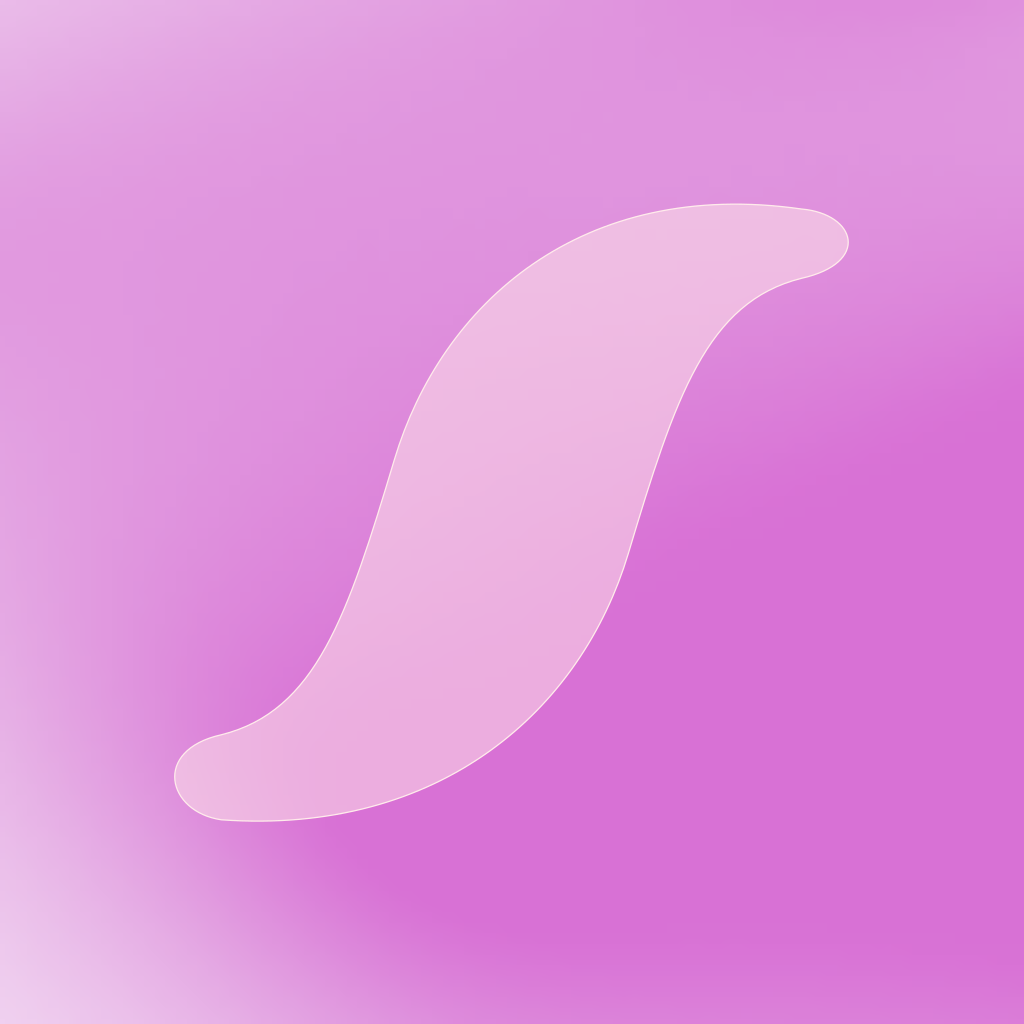
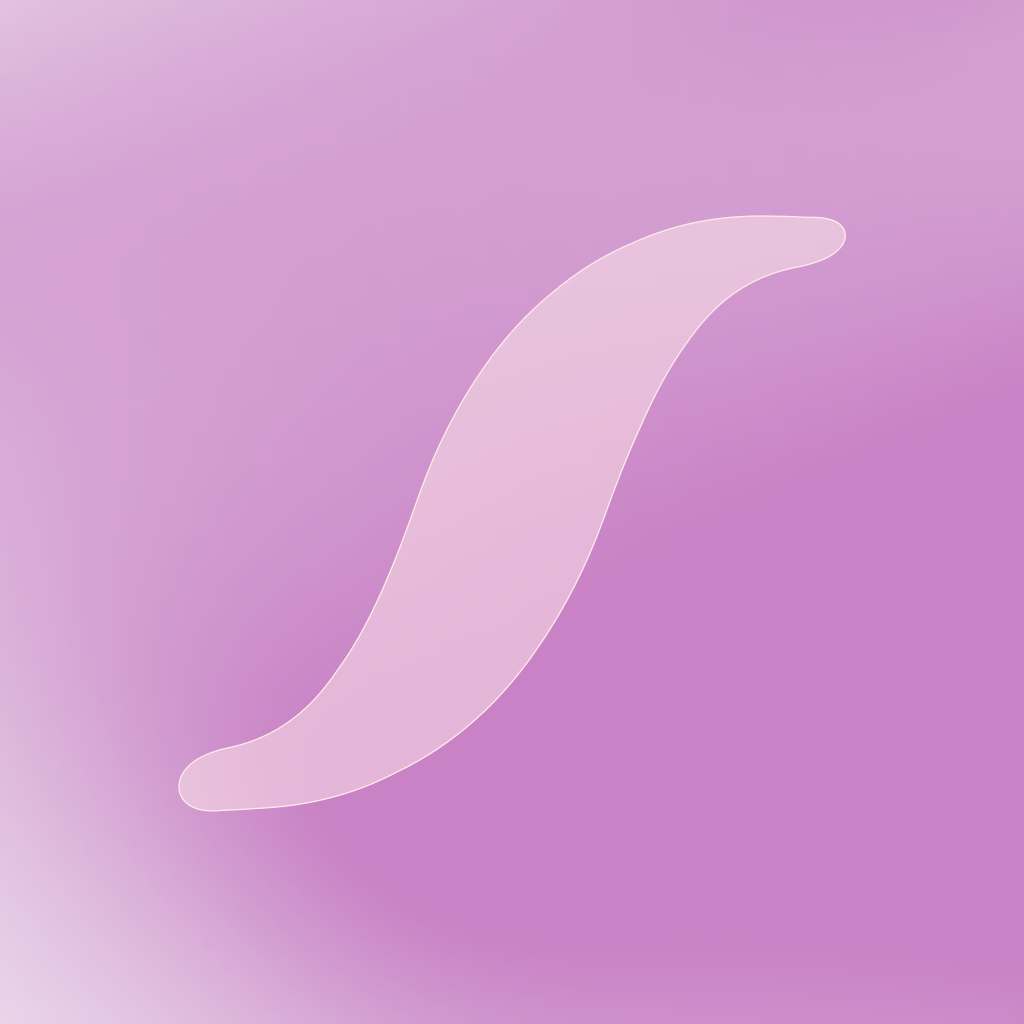
Bake the mark down to 0.7 chroma and 0.7 width
Two passes with the /ci/ controls, settled on and then written into the
artwork rather than left as a setting somebody has to remember. The
ground goes to 0.7 of the chroma it carried, through the same Oklab
transform the slider runs, which leaves every lightness alone so the
swash keeps its contrast against it. The swash goes to 0.7 of its width
through swash.js, which keeps it curves rather than a traced outline, so
the file is as sharp as the export was. /ci/ reads this file as its
baseline, so both controls sit at 1.00 over it and a download at rest is
the file on disk, as before.

swash.js could not read back what it had written. It ends its two sides
at the ends of the stroke, so reading the result again puts a tip exactly
on a join, splits there at t = 0, and hands back a cubic that is a point
— which carries no shape but does carry a breakpoint, and a breakpoint on
one side with no partner on the other pairs the two sides off by one.
Dropping them is the same rule the Figma seams already got. It round
trips now, twice over.

The mark PNGs are re-rasterised, which is rsvg-convert and needs no
browser. The headers are a shader render and still want a `bun run brand`
to pick the new ground up.

Changed region(s): [[0.1875, 0.25, 0.8125, 0.8125], [0.1562, 0.1875, 0.8125, 0.7812], [0.8125, 0.2188, 0.8438, 0.25]]

diff --git a/public/ci/swash.js b/public/ci/swash.js
@@ -152,7 +152,16 @@ function breaksOf(chain) {
 
 const reverseChain = (chain) => chain.map((c) => [...c].reverse()).reverse();
 
-/** The run of cubics from one point on the closed outline forward to another. */
+/**
+ * The run of cubics from one point on the closed outline forward to another.
+ *
+ * An end that falls exactly on a join — which is what happens when this module
+ * reads back an outline it wrote, since it ends its two sides at the ends — is
+ * split at t = 0 or t = 1, and one of the halves that comes back is a point.
+ * Those are dropped for the same reason the seams are: no shape, but a
+ * breakpoint each, and a breakpoint on one side with no partner on the other
+ * pairs the two off by one.
+ */
 function chainBetween(cubics, from, to) {
     const out = [];
     let i = from[0];
@@ -162,7 +171,7 @@ function chainBetween(cubics, from, to) {
         if (i === to[0] && t <= to[1]) {
             if (to[1] < 1) piece = splitAt(piece, t < 1 ? (to[1] - t) / (1 - t) : 0)[0];
             out.push(piece);
-            return out;
+            return out.filter((c) => lengthOf(c) > MIN_SEGMENT);
         }
         out.push(piece);
         i = (i + 1) % cubics.length;
